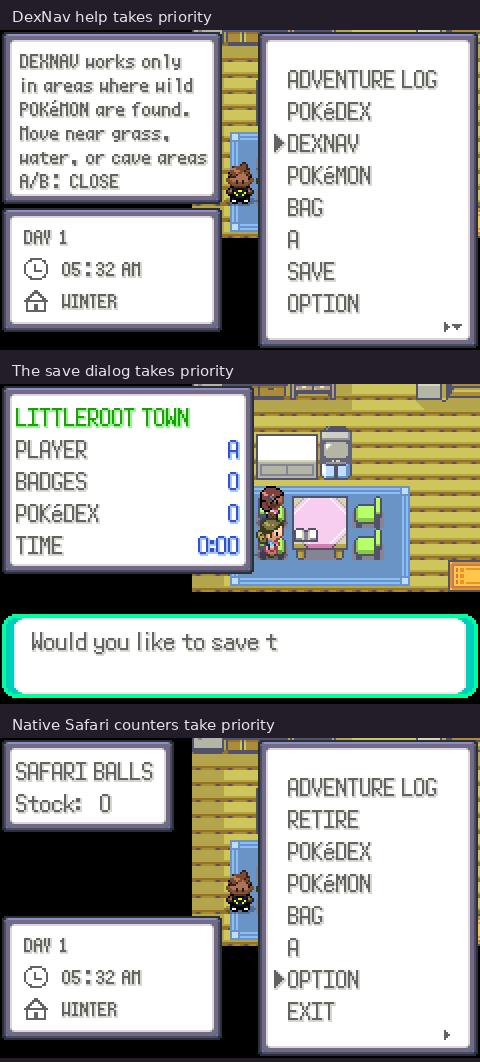
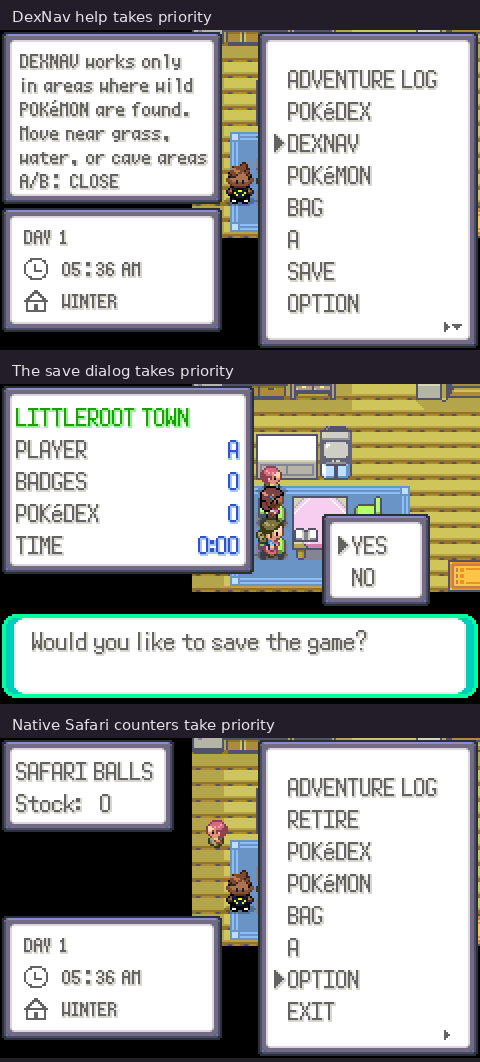
QA: finish save prompt before quest-tracking safety capture

diff --git a/tools/legends/native_quest_tracking_qa/host.c b/tools/legends/native_quest_tracking_qa/host.c
@@ -34,7 +34,7 @@ int main(int argc,char **argv){
  key(128);key(128);key(1);assert(!card());capture(argv[2],"dexnav-help");
  key(2);assert(card());capture(argv[2],"dexnav-return");
  // Save dialog and submenus must not retain the reminder.
- for(int i=0;i<4;i++)key(128);key(1);assert(!card());capture(argv[2],"save-dialog");
+ for(int i=0;i<4;i++)key(128);key(1);assert(!card());frames(150);capture(argv[2],"save-dialog");
  for(int n=0;n<3&&!card();n++)key(2);assert(card());capture(argv[2],"save-return");key(2);assert(!card());
  command(3,1200);profile();assert(box(13)==1&&box(14)==1&&box(1)==9&&box(5)==appearance);
  battery(argv[2]);
